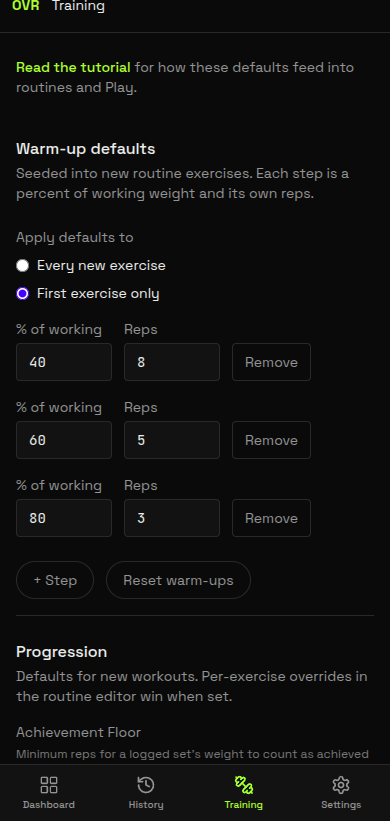
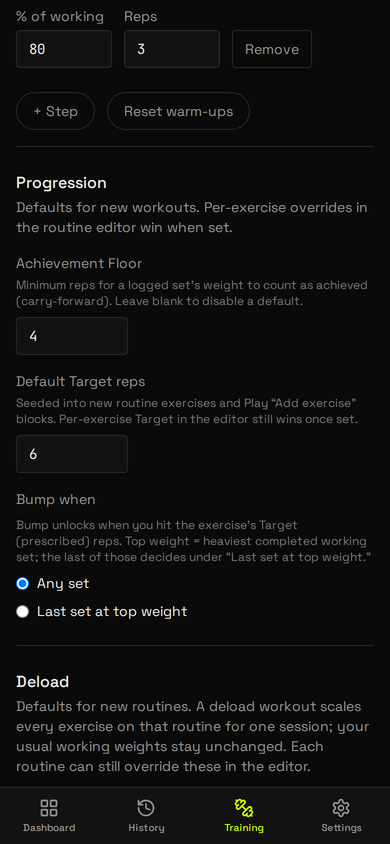
Document Default Target reps in the tutorial and plan.
Refresh Training guide shots and move the parked backlog item to Shipped.

diff --git a/resources/js/pages/Tutorial.vue b/resources/js/pages/Tutorial.vue
@@ -105,6 +105,11 @@ const toc = [
                     whether that ladder applies to every new exercise or only the first one.
                 </p>
                 <p class="text-muted-foreground">
+                    <strong class="text-foreground">Default Target reps</strong> seeds the Target field on new routine exercises and on Play
+                    <strong class="text-foreground"> Add exercise</strong> blocks (default 6 until you change it). Per-exercise Target in the editor
+                    still wins once you set it.
+                </p>
+                <p class="text-muted-foreground">
                     <strong class="text-foreground">Achievement Floor</strong> is the minimum reps for a logged set’s weight to count as achieved
                     (used when carry-forward raises the routine to your heaviest real top set). <strong class="text-foreground">Bump when</strong> is
                     which set has to hit Target reps before the app offers a bump — any working set at the working weight, or only the last set at the
@@ -114,7 +119,7 @@ const toc = [
                 <TutorialShot
                     name="training"
                     alt="Training settings for warm-ups, progression, and deload defaults"
-                    caption="Training: warm-up ladder, Floor, Bump when, and deload defaults that seed new routines."
+                    caption="Training: warm-up ladder, Default Target reps, Floor, Bump when, and deload defaults that seed new routines."
                 />
                 <p v-if="isSignedIn">
                     <Link :href="route('training.edit')" class="font-medium text-primary underline-offset-2 hover:underline">Open Training</Link>
@@ -159,7 +164,8 @@ const toc = [
                 <p class="text-muted-foreground">
                     Need an extra lift? Tap <strong class="text-foreground">Add exercise to workout</strong> in the action row. Choose a catalog or
                     private custom exercise and it is appended as a single, three-set block on this workout only. It does not change the routine or
-                    offer progression; its first target reps match the previous exercise. You can remove the new block before logging a set.
+                    offer progression; its Target reps come from your Training <strong class="text-foreground">Default Target reps</strong>. You can
+                    remove the new block before logging a set.
                 </p>
                 <p class="text-muted-foreground">
                     On the log sheet you will see <strong class="text-foreground">Floor</strong> and

diff --git a/docs/plan.md b/docs/plan.md
@@ -14,20 +14,21 @@ Working backlog for OVRLOAD v2. Update this as items ship or get deferred. Domai
 
 Gym-test 2026-07-28 + 2026-07-26 + remaining product history. Newest first within each batch where noted.
 
-1. **Demote dropset → single in Play** — incomplete dropset → clear segments back to a single (mirror of Promote)
-2. **Add exercise in Play** — snapshot-only ad-hoc exercise from catalog/custom picker; three working sets; current focus stays in place; no progression
-3. **Fewer dashboard history items** — dashboard recent strip shows 3, not 5
-4. **PWA install instructions** — FAQ “How do I install…?” + tutorial `#install` (iOS Safari Share → Add to Home Screen; Android Chrome Install / Add to Home screen)
-3. **Tutorial** — public `/tutorial` walkthrough (page first; in-app tour later); FAQ “How do I learn the app?”; Training / empty Dashboard / History entry points; device-matched screenshots
-4. **Custom user exercises** — private per-user customs from routine ExercisePicker; shared catalog stays admin/import-only
-5. **Choose an alternate exercise for Deload sessions** — optional Deload Alternate (exercise + own weight) per block exercise; Deload snapshot only; Singles when alternate set
-6. **Laravel Sail local stack** — Dockerised local app (PHP/MySQL/Redis/Mailpit/queue/Vite); `npm run sail:up` LAN phone access; host `composer run dev` fallback (#63)
-7. **Add Historical Workouts** — History → Add historical; when-first (no “now” default); deload; +/− set / mark group skipped; warm-ups %×Set 1 (hint + override); progression only if latest non-deload; OK while Play in progress; UI “group” not “block” on skip actions
-8. **Skip rest of block** — − Set trims incomplete rounds (never last); confirmed Skip rest of group deletes remaining incompletes (warm-ups + working → 0); Set + Rest; no shame rows in History (#64)
-9. **Since-last-deload counts** — per-routine dashboard standards since latest finished deload; soft Deload hint at ≥ Deload Velocity (`deload_every_n`, editor + Training defaults; 0 = never); #47
-10. **Domain mail + beta forms + PWA icons** — Resend domain mailboxes; invite `MAIL_REPLY_TO_ADDRESS`; first-party `/invite-request` & `/feedback` (stored + notify invite@/feedback@); privacy drops Tally; Ko-Fi link; padded/maskable PWA icons (#56)
-11. **Exercise catalog curation** — curated 174 shared lifts (original short list + selective free-exercise-db); `exercises:import` soft-deletes extras unless `--no-prune`
-12. **Nicer confirms** — ~~replace browser `confirm`/`alert` with in-app dialogs~~ done (`confirmDialog` + `ConfirmDialogHost`; RestStage inline skip unchanged)
+1. **Default Target reps in Training** — Settings field; seeds new editor blocks and Play ad-hoc (fallback 6)
+2. **Demote dropset → single in Play** — incomplete dropset → clear segments back to a single (mirror of Promote)
+3. **Add exercise in Play** — snapshot-only ad-hoc exercise from catalog/custom picker; three working sets; current focus stays in place; no progression
+4. **Fewer dashboard history items** — dashboard recent strip shows 3, not 5
+5. **PWA install instructions** — FAQ “How do I install…?” + tutorial `#install` (iOS Safari Share → Add to Home Screen; Android Chrome Install / Add to Home screen)
+6. **Tutorial** — public `/tutorial` walkthrough (page first; in-app tour later); FAQ “How do I learn the app?”; Training / empty Dashboard / History entry points; device-matched screenshots
+7. **Custom user exercises** — private per-user customs from routine ExercisePicker; shared catalog stays admin/import-only
+8. **Choose an alternate exercise for Deload sessions** — optional Deload Alternate (exercise + own weight) per block exercise; Deload snapshot only; Singles when alternate set
+9. **Laravel Sail local stack** — Dockerised local app (PHP/MySQL/Redis/Mailpit/queue/Vite); `npm run sail:up` LAN phone access; host `composer run dev` fallback (#63)
+10. **Add Historical Workouts** — History → Add historical; when-first (no “now” default); deload; +/− set / mark group skipped; warm-ups %×Set 1 (hint + override); progression only if latest non-deload; OK while Play in progress; UI “group” not “block” on skip actions
+11. **Skip rest of block** — − Set trims incomplete rounds (never last); confirmed Skip rest of group deletes remaining incompletes (warm-ups + working → 0); Set + Rest; no shame rows in History (#64)
+12. **Since-last-deload counts** — per-routine dashboard standards since latest finished deload; soft Deload hint at ≥ Deload Velocity (`deload_every_n`, editor + Training defaults; 0 = never); #47
+13. **Domain mail + beta forms + PWA icons** — Resend domain mailboxes; invite `MAIL_REPLY_TO_ADDRESS`; first-party `/invite-request` & `/feedback` (stored + notify invite@/feedback@); privacy drops Tally; Ko-Fi link; padded/maskable PWA icons (#56)
+14. **Exercise catalog curation** — curated 174 shared lifts (original short list + selective free-exercise-db); `exercises:import` soft-deletes extras unless `--no-prune`
+15. **Nicer confirms** — ~~replace browser `confirm`/`alert` with in-app dialogs~~ done (`confirmDialog` + `ConfirmDialogHost`; RestStage inline skip unchanged)
 13. **"Block" naming** — ~~UI/copy only: Play/History drop “Block N” (show `Superset` when needed); Up next drops Block N; setup hints use exercise names; editor/settings leftover noun = Exercise; domain `Block` unchanged~~ done
 14. **Set x/y in exercise header (Play)** — ~~set progress in the big exercise header (and log sheet), labeled Warm-up / Working~~ done
 15. **Bump when mode** — ~~Settings “Bump when”: Any set / Last set at top weight; snapshotted on workout start; Floor kept for carry-forward; Bump = prescribed Target (no separate Progression Target / editor Bump); log sheet `Floor X. Bump @ Y`; confirm on finish + history re-eval~~ done
@@ -105,7 +106,6 @@ Public order matches `/beta-tester-faqs`.
 - **Strava integration** — OAuth / export / privacy grill later
 - **Garmin sync** — after Strava
 - **Skip block / come back later in Play** — leave a block and return after doing a later one (machine busy)
-- **Default Target reps in Training** — user default for new editor blocks + Play ad-hoc (then ad-hoc uses Training default always when set; today interim = previous block Target)
 - **Ad-hoc / off-routine historical log (C2)** — log a lift not on a routine session; own grill (maybe after Play ad-hoc)
 - **Dropsets on supersets**
 - **Flaky-network drafts** — best-effort offline/queue for player logging
